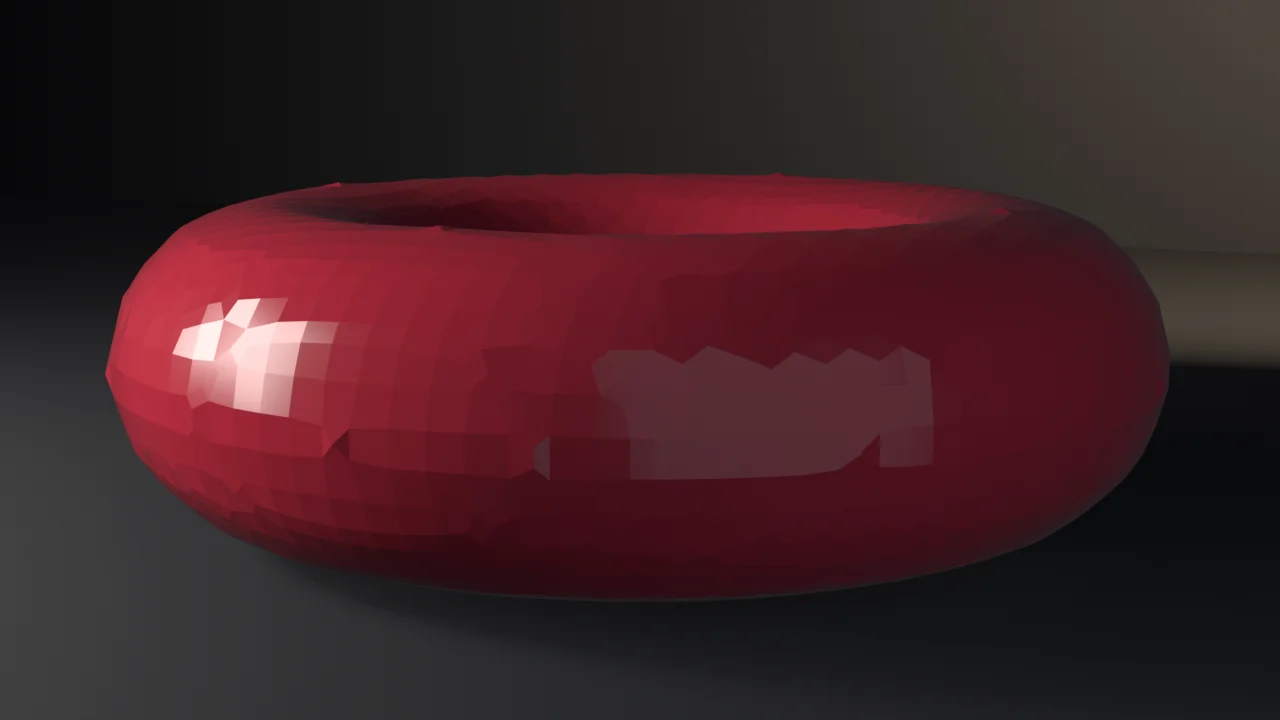
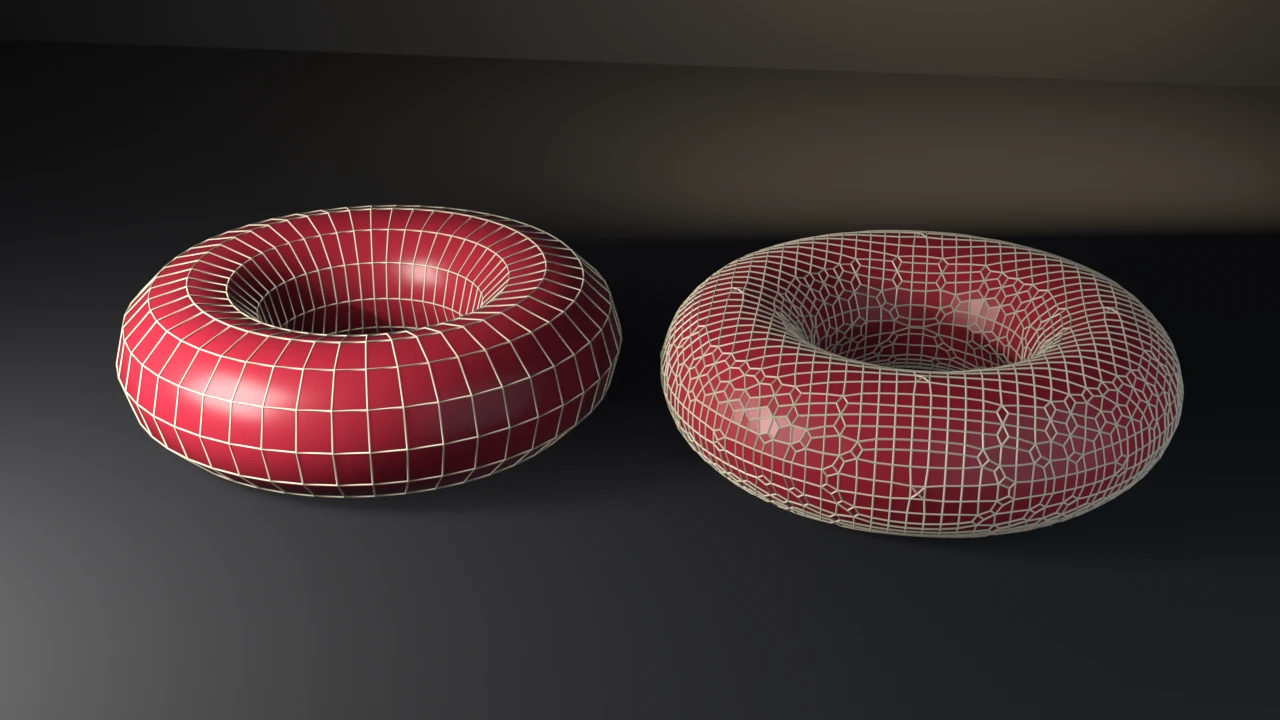
fix(examples): gn-sdf-remesh still shows source and remesh side by side under edge cages
Render path only. The check, its assertions and exit codes are unchanged.
Both tori are grounded on their measured bottoms. docs/gallery/index.html
also carries the water-trough card alt from the previous commit.

diff --git a/docs/gallery/gn-sdf-remesh/index.html b/docs/gallery/gn-sdf-remesh/index.html
@@ -16,13 +16,13 @@
   <meta property="og:image" content="https://tmhsdigital.github.io/Blender-Developer-Tools/gallery/assets/gn-sdf-remesh-hero.webp" />
   <meta property="og:image:width" content="1280" />
   <meta property="og:image:height" content="720" />
-  <meta property="og:image:alt" content="A glossy red torus with visibly blocky voxel faceting from the SDF remesh." />
+  <meta property="og:image:alt" content="Two red tori side by side under pale edge cages: the source with even ring topology, and its SDF remesh covered in a dense irregular voxel grid." />
   <meta property="og:site_name" content="Blender Developer Tools" />
   <meta name="twitter:card" content="summary_large_image" />
   <meta name="twitter:title" content="gn-sdf-remesh — Examples — Blender Developer Tools" />
   <meta name="twitter:description" content="A Geometry Nodes SDF remesh (MeshToSDFGrid → GridToMesh at the SDF zero-level), with a Set Material node carrying the material through the remesh." />
   <meta name="twitter:image" content="https://tmhsdigital.github.io/Blender-Developer-Tools/gallery/assets/gn-sdf-remesh-hero.webp" />
-  <meta name="twitter:image:alt" content="A glossy red torus with visibly blocky voxel faceting from the SDF remesh." />
+  <meta name="twitter:image:alt" content="Two red tori side by side under pale edge cages: the source with even ring topology, and its SDF remesh covered in a dense irregular voxel grid." />
   <style>
     /* fonts are deployed by the landing build (docs/fonts/) */
     @font-face { font-family: 'Barlow Condensed'; font-weight: 600; font-display: swap;
@@ -268,8 +268,8 @@
     <p>A Geometry Nodes SDF remesh (MeshToSDFGrid → GridToMesh at the SDF zero-level), with a Set Material node carrying the material through the remesh.</p>
   </header>
   <main id="main">
-    <button class="detail-hero" id="heroZoom" type="button" aria-label="View full size: A glossy red torus with visibly blocky voxel faceting from the SDF remesh.">
-      <img src="../assets/gn-sdf-remesh-hero.webp" alt="A glossy red torus with visibly blocky voxel faceting from the SDF remesh." width="1280" height="720" />
+    <button class="detail-hero" id="heroZoom" type="button" aria-label="View full size: Two red tori side by side under pale edge cages: the source with even ring topology, and its SDF remesh covered in a dense irregular voxel grid.">
+      <img src="../assets/gn-sdf-remesh-hero.webp" alt="Two red tori side by side under pale edge cages: the source with even ring topology, and its SDF remesh covered in a dense irregular voxel grid." width="1280" height="720" />
     </button>
     <p class="zoom-hint">Rendered headless by the example itself — click to zoom.</p>
     <div class="callout"><span class="tag">witnesses</span> An SDF grid is meshed with Grid to Mesh, not Volume to Mesh; GN geometry needs Set Material or it renders untextured.</div>
@@ -377,10 +377,56 @@ both builds.
     wall.rotation_euler = (<span class="n">1.5708</span>, <span class="n">0</span>, <span class="n">0</span>); bpy.context.collection.objects.link(wall)
     w = bpy.data.worlds.new(<span class="s">&quot;W&quot;</span>); w.use_nodes = <span class="k">True</span>
     w.node_tree.nodes[<span class="s">&quot;Background&quot;</span>].inputs[<span class="n">0</span>].default_value = (<span class="n">0.02</span>, <span class="n">0.021</span>, <span class="n">0.025</span>, <span class="n">1</span>); sc.world = w
-    aim = bpy.data.objects.new(<span class="s">&quot;Aim&quot;</span>, <span class="k">None</span>); aim.location = (<span class="n">0</span>, <span class="n">0</span>, <span class="n">0.5</span>); bpy.context.collection.objects.link(aim)
-    <span class="c"># off-axis and low: the remesh facets are the API evidence, and they only</span>
-    <span class="c"># read when a raking key skims them from the side</span>
-    cam = bpy.data.objects.new(<span class="s">&quot;cam&quot;</span>, bpy.data.cameras.new(<span class="s">&quot;cam&quot;</span>)); cam.location = (<span class="n">2.6</span>, -<span class="n">5.2</span>, <span class="n">1.5</span>)
+    <span class="c"># Input beside output. Alone, the remeshed torus read as a glossy inner</span>
+    <span class="c"># tube with blotchy highlights: nothing said &quot;remeshed&quot;. The source torus</span>
+    <span class="c"># (a modifier-free copy of the same datablock) on the left and the SDF</span>
+    <span class="c"># result on the right, each under a cage of its own edges, show the</span>
+    <span class="c"># thing the check measures: UV-ring topology in, voxel-grid topology</span>
+    <span class="c"># out. Render-path scaffolding only; the check ran before this.</span>
+    obj.location.x = <span class="n">1.85</span>
+    src = bpy.data.objects.new(<span class="s">&quot;SourceTorus&quot;</span>, obj.data.copy())
+    src.location = (-<span class="n">1.85</span>, obj.location.y, obj.location.z)
+    bpy.context.collection.objects.link(src)
+    <span class="c"># build() centres the torus at z=0.55 with a 0.5 minor radius, so both</span>
+    <span class="c"># hovered 5 cm over the floor. Ground each on its own measured bottom:</span>
+    <span class="c"># the SDF surface is not exactly the source surface.</span>
+    dg0 = bpy.context.evaluated_depsgraph_get()
+    em = obj.evaluated_get(dg0).to_mesh()
+    obj.location.z -= obj.location.z + min(v.co.z <span class="k">for</span> v <span class="k">in</span> em.vertices)
+    obj.evaluated_get(dg0).to_mesh_clear()
+    src.location.z = -min(v.co.z <span class="k">for</span> v <span class="k">in</span> src.data.vertices)
+    cage_mat = bpy.data.materials.new(<span class="s">&quot;Cage&quot;</span>); cage_mat.use_nodes = <span class="k">True</span>
+    cb = cage_mat.node_tree.nodes.get(<span class="s">&#x27;Principled BSDF&#x27;</span>)
+    cb.inputs[<span class="s">&#x27;Base Color&#x27;</span>].default_value = (<span class="n">0.92</span>, <span class="n">0.82</span>, <span class="n">0.62</span>, <span class="n">1</span>)
+    cb.inputs[<span class="s">&#x27;Roughness&#x27;</span>].default_value = <span class="n">0.4</span>
+    cages = []
+    dg = bpy.context.evaluated_depsgraph_get()
+    <span class="k">for</span> host, remeshed <span class="k">in</span> ((src, <span class="k">False</span>), (obj, <span class="k">True</span>)):
+        <span class="c"># The remeshed cage is the evaluated result frozen into a plain mesh:</span>
+        <span class="c"># a live copy of the tree would re-apply its Set Material and paint</span>
+        <span class="c"># the cage crimson.</span>
+        data = (bpy.data.meshes.new_from_object(obj.evaluated_get(dg))
+                <span class="k">if</span> remeshed <span class="k">else</span> obj.data.copy())
+        cage = bpy.data.objects.new(host.name + <span class="s">&quot;Cage&quot;</span>, data)
+        cage.data.materials.clear(); cage.data.materials.append(cage_mat)
+        <span class="k">for</span> poly <span class="k">in</span> cage.data.polygons:
+            poly.material_index = <span class="n">0</span>
+        cage.location = host.location
+        wire = cage.modifiers.new(<span class="s">&quot;cage&quot;</span>, <span class="s">&#x27;WIREFRAME&#x27;</span>)
+        wire.thickness = <span class="n">0.012</span>; wire.offset = <span class="n">1.0</span>; wire.use_even_offset = <span class="k">True</span>
+        wire.material_offset = <span class="n">0</span>
+        bpy.context.collection.objects.link(cage)
+        cages.append(cage)
+    <span class="c"># Softer than 0.16: at that gloss every voxel facet threw its own hard</span>
+    <span class="c"># glint and the highlight broke into blocks that read as artifacts.</span>
+    <span class="k">for</span> m <span class="k">in</span> obj.data.materials:
+        <span class="k">if</span> m <span class="k">is</span> <span class="k">not</span> <span class="k">None</span> <span class="k">and</span> m.node_tree <span class="k">is</span> <span class="k">not</span> <span class="k">None</span>:
+            bsdf = m.node_tree.nodes.get(<span class="s">&#x27;Principled BSDF&#x27;</span>)
+            <span class="k">if</span> bsdf <span class="k">is</span> <span class="k">not</span> <span class="k">None</span>:
+                bsdf.inputs[<span class="s">&#x27;Roughness&#x27;</span>].default_value = <span class="n">0.32</span>
+    aim = bpy.data.objects.new(<span class="s">&quot;Aim&quot;</span>, <span class="k">None</span>); aim.location = (<span class="n">0</span>, <span class="n">0</span>, <span class="n">0.45</span>); bpy.context.collection.objects.link(aim)
+    <span class="c"># Raised so both donut holes read, and pulled back to hold the pair.</span>
+    cam = bpy.data.objects.new(<span class="s">&quot;cam&quot;</span>, bpy.data.cameras.new(<span class="s">&quot;cam&quot;</span>)); cam.location = (<span class="n">1.5</span>, -<span class="n">10.8</span>, <span class="n">5.5</span>)
     bpy.context.collection.objects.link(cam); sc.camera = cam
     c = cam.constraints.new(<span class="s">&#x27;TRACK_TO&#x27;</span>); c.target = aim; c.track_axis = <span class="s">&#x27;TRACK_NEGATIVE_Z&#x27;</span>; c.up_axis = <span class="s">&#x27;UP_Y&#x27;</span>
     <span class="c"># low raking warm key so every facet catches a distinct glint, faint cool</span>
@@ -466,7 +512,7 @@ both builds.
   </main>
   <dialog class="lightbox" id="lightbox" aria-label="Full-size render">
     <button class="lightbox-close" type="button" autofocus>Close</button>
-    <img src="../assets/gn-sdf-remesh-hero.webp" alt="A glossy red torus with visibly blocky voxel faceting from the SDF remesh." />
+    <img src="../assets/gn-sdf-remesh-hero.webp" alt="Two red tori side by side under pale edge cages: the source with even ring topology, and its SDF remesh covered in a dense irregular voxel grid." />
   </dialog>
   <footer>
     <div class="statusbar">

diff --git a/docs/gallery/index.html b/docs/gallery/index.html
@@ -365,7 +365,7 @@
       </article>
       <article class="card" data-tags="geometry-nodes materials">
         <a class="card-media" href="gn-sdf-remesh/" tabindex="-1" aria-hidden="true">
-          <img src="assets/gn-sdf-remesh-hero.webp" alt="A glossy red torus with visibly blocky voxel faceting from the SDF remesh." loading="lazy" decoding="async" />
+          <img src="assets/gn-sdf-remesh-hero.webp" alt="Two red tori side by side under pale edge cages: the source with even ring topology, and its SDF remesh covered in a dense irregular voxel grid." loading="lazy" decoding="async" />
         </a>
         <div class="card-body">
           <h2><a href="gn-sdf-remesh/">gn-sdf-remesh</a></h2>
@@ -1058,7 +1058,7 @@
       </article>
       <article class="card" data-tags="mesh export showcase">
         <a class="card-media" href="water-trough/" tabindex="-1" aria-hidden="true">
-          <img src="assets/water-trough-hero.webp" alt="A curved wooden water trough on crossed trestle legs, filled with dark green water." loading="lazy" decoding="async" />
+          <img src="assets/water-trough-hero.webp" alt="A staved wooden water trough with solid half-round end boards on crossed trestle legs, half full of dark water." loading="lazy" decoding="async" />
         </a>
         <div class="card-body">
           <h2><a href="water-trough/">water-trough</a></h2>

diff --git a/examples/gn-sdf-remesh/gn_sdf_remesh.py b/examples/gn-sdf-remesh/gn_sdf_remesh.py
@@ -73,10 +73,56 @@ def render_still(obj, path, engine):
     wall.rotation_euler = (1.5708, 0, 0); bpy.context.collection.objects.link(wall)
     w = bpy.data.worlds.new("W"); w.use_nodes = True
     w.node_tree.nodes["Background"].inputs[0].default_value = (0.02, 0.021, 0.025, 1); sc.world = w
-    aim = bpy.data.objects.new("Aim", None); aim.location = (0, 0, 0.5); bpy.context.collection.objects.link(aim)
-    # off-axis and low: the remesh facets are the API evidence, and they only
-    # read when a raking key skims them from the side
-    cam = bpy.data.objects.new("cam", bpy.data.cameras.new("cam")); cam.location = (2.6, -5.2, 1.5)
+    # Input beside output. Alone, the remeshed torus read as a glossy inner
+    # tube with blotchy highlights: nothing said "remeshed". The source torus
+    # (a modifier-free copy of the same datablock) on the left and the SDF
+    # result on the right, each under a cage of its own edges, show the
+    # thing the check measures: UV-ring topology in, voxel-grid topology
+    # out. Render-path scaffolding only; the check ran before this.
+    obj.location.x = 1.85
+    src = bpy.data.objects.new("SourceTorus", obj.data.copy())
+    src.location = (-1.85, obj.location.y, obj.location.z)
+    bpy.context.collection.objects.link(src)
+    # build() centres the torus at z=0.55 with a 0.5 minor radius, so both
+    # hovered 5 cm over the floor. Ground each on its own measured bottom:
+    # the SDF surface is not exactly the source surface.
+    dg0 = bpy.context.evaluated_depsgraph_get()
+    em = obj.evaluated_get(dg0).to_mesh()
+    obj.location.z -= obj.location.z + min(v.co.z for v in em.vertices)
+    obj.evaluated_get(dg0).to_mesh_clear()
+    src.location.z = -min(v.co.z for v in src.data.vertices)
+    cage_mat = bpy.data.materials.new("Cage"); cage_mat.use_nodes = True
+    cb = cage_mat.node_tree.nodes.get('Principled BSDF')
+    cb.inputs['Base Color'].default_value = (0.92, 0.82, 0.62, 1)
+    cb.inputs['Roughness'].default_value = 0.4
+    cages = []
+    dg = bpy.context.evaluated_depsgraph_get()
+    for host, remeshed in ((src, False), (obj, True)):
+        # The remeshed cage is the evaluated result frozen into a plain mesh:
+        # a live copy of the tree would re-apply its Set Material and paint
+        # the cage crimson.
+        data = (bpy.data.meshes.new_from_object(obj.evaluated_get(dg))
+                if remeshed else obj.data.copy())
+        cage = bpy.data.objects.new(host.name + "Cage", data)
+        cage.data.materials.clear(); cage.data.materials.append(cage_mat)
+        for poly in cage.data.polygons:
+            poly.material_index = 0
+        cage.location = host.location
+        wire = cage.modifiers.new("cage", 'WIREFRAME')
+        wire.thickness = 0.012; wire.offset = 1.0; wire.use_even_offset = True
+        wire.material_offset = 0
+        bpy.context.collection.objects.link(cage)
+        cages.append(cage)
+    # Softer than 0.16: at that gloss every voxel facet threw its own hard
+    # glint and the highlight broke into blocks that read as artifacts.
+    for m in obj.data.materials:
+        if m is not None and m.node_tree is not None:
+            bsdf = m.node_tree.nodes.get('Principled BSDF')
+            if bsdf is not None:
+                bsdf.inputs['Roughness'].default_value = 0.32
+    aim = bpy.data.objects.new("Aim", None); aim.location = (0, 0, 0.45); bpy.context.collection.objects.link(aim)
+    # Raised so both donut holes read, and pulled back to hold the pair.
+    cam = bpy.data.objects.new("cam", bpy.data.cameras.new("cam")); cam.location = (1.5, -10.8, 5.5)
     bpy.context.collection.objects.link(cam); sc.camera = cam
     c = cam.constraints.new('TRACK_TO'); c.target = aim; c.track_axis = 'TRACK_NEGATIVE_Z'; c.up_axis = 'UP_Y'
     # low raking warm key so every facet catches a distinct glint, faint cool
